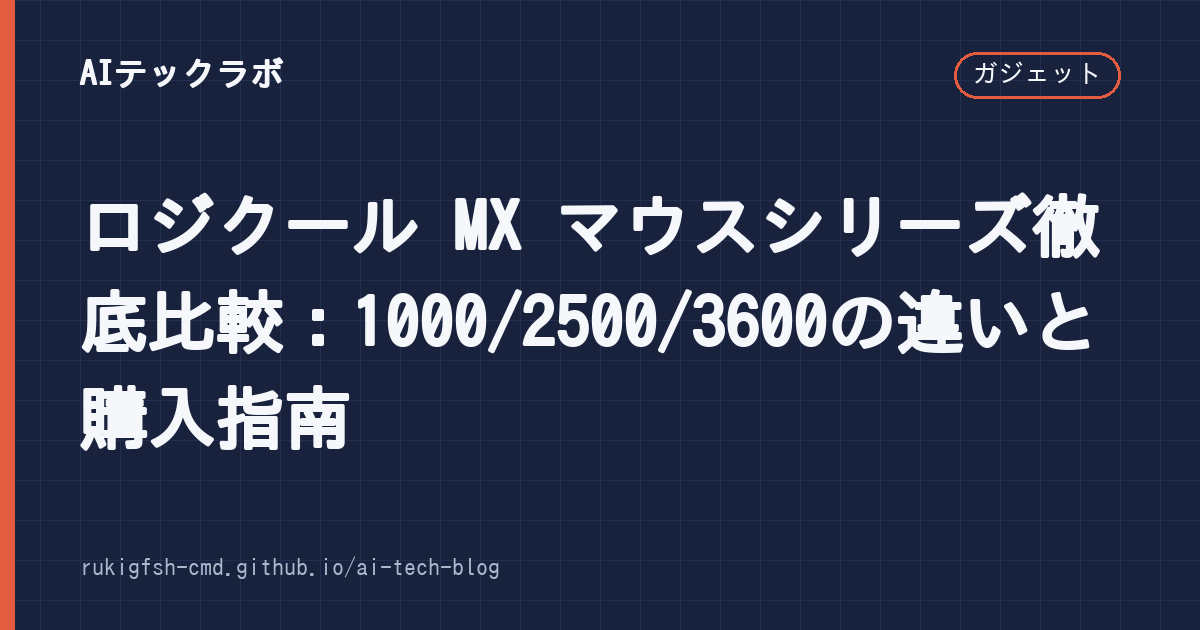
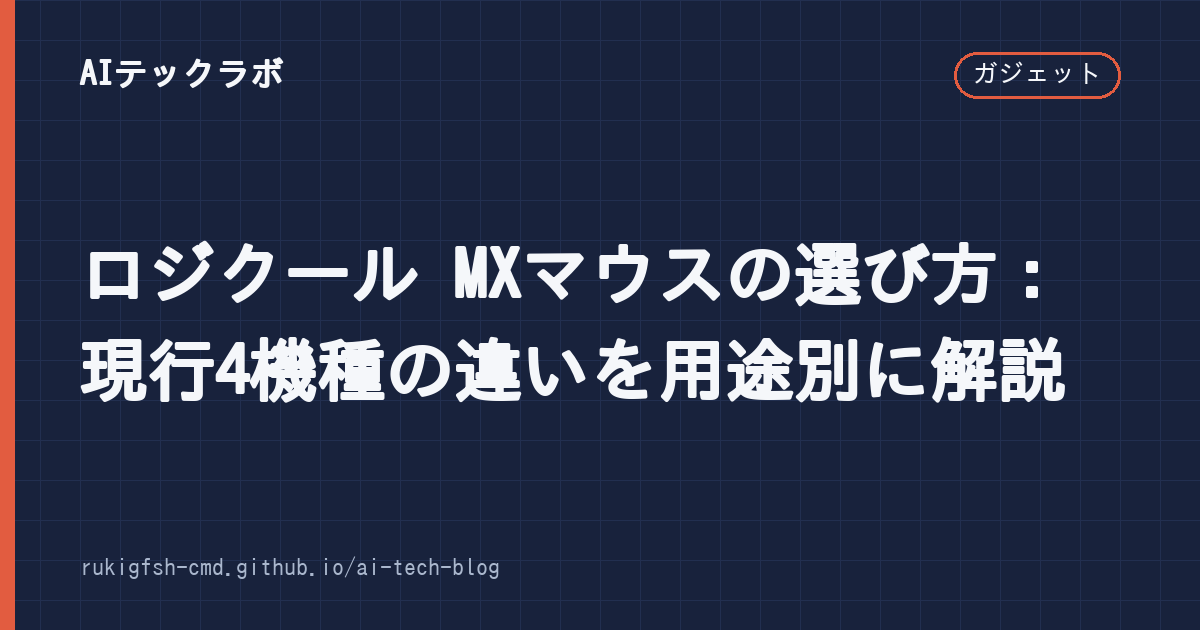
[auto-publish] ロジクールMXマウス記事を全面改稿（実在しない型番を削除し、現行4機種の違いと選び方を出典付きで）
Claude-Session: https://claude.ai/code/session_01LHbLs33cDbBz34BPQfV2BF

Changed region(s): [[0.0617, 0.3016, 0.925, 0.7238]]

diff --git a/_posts/2026-10-02-ロジクール-マウス-mx.md b/_posts/2026-10-02-ロジクール-マウス-mx.md
@@ -1,107 +1,162 @@
 ---
 layout: "post"
-title: "ロジクール MX マウスシリーズ徹底比較：1000/2500/3600の違いと購入指南"
+title: "ロジクール MXマウスの選び方：現行4機種の違いを用途別に解説"
 date: "2026-10-02 00:00:00 +0900"
-description: "ロジクール MX マウスの違いや選び方を知りたい人向け。各モデルの特徴と価格帯を比較し、用途別におすすめの機種を解説します"
+last_modified_at: 2026-11-27
+description: "ロジクールのMXマウス4機種（MX MASTER 4 / ANYWHERE 3S / ERGO S / VERTICAL）の違いを、形・重さ・接続台数・電池の持ち・価格で比較し、作業内容や手首の悩み別に選び方を整理します。"
 categories:
   - ガジェット
 tags:
   - ロジクール
   - マウス
   - MX
+  - 選び方
 author: "AIテックラボ編集部"
 image: "/assets/images/ロジクール-マウス-mx.png"
+pr: false
 ---
 
-## 目次
+「ロジクールの MX シリーズが良いと聞くけれど、どれを買えばいいのか分からない」という人向けに、**2026年11月時点で買える MX マウス4機種の違い**と、用途別の選び方を整理します。
 
-1. [基本構造の違いで性能が分かれる](#基本構造の違いで性能が分かれる)
-2. [各モデルの詳細比較](#各モデルの詳細比較)
-3. [ボタン配置の違いにも注意](#ボタン配置の違いにも注意)
-4. [選び方のポイントまとめ](#選び方のポイントまとめ)
-5. [FAQ](#faq)
+先に結論です。
 
----
+- **机で長時間作業する・ボタンをたくさん使いたい** → MX MASTER 4
+- **持ち歩く・手が小さめ・静かなクリックがいい** → MX ANYWHERE 3S
+- **手首や肩が疲れる・机が狭い** → MX ERGO S（トラックボール）
+- **手首をひねる姿勢がつらい** → MX VERTICAL（縦型）
 
-ロジクールのMXシリーズは、長時間使用でも疲れにくい設計が特徴で、多くのユーザーから高評価を得ています。しかし1000/2500/3600など複数のモデルが存在するため、自分に合ったものを選ぶのが難しいです。
+> **この記事について**: 以前この記事に載せていた「MX1000 / MX2500 / MX3600」の比較は、実在しない型番と誤った仕様にもとづく内容でした。読者の皆さまにお詫びし、2026年11月27日に全面的に書き直しました。仕様はメーカーの公式資料と報道で確認したもので、編集部が実機を使って検証したものではありません。価格や在庫は変わるため、購入前に公式ストアで確かめてください。
 
-今回は各モデルの性能・価格帯を詳細に比較し、用途別におすすめの機種を提案します。
+## MXシリーズとは
 
-## 基本構造の違いで性能が分かれる
+MX はロジクール（海外では Logitech）の、仕事向けの上位シリーズです。マウスのほかにキーボード（MX KEYS など）もあります。マウスに共通する特徴は次のとおりです。
 
-MXシリーズの基本構造はほぼ同じですが、センサーやボタンの数値設定で大きく異なります。
+- **複数のパソコンを切り替えられる**（Easy-Switch）。Bluetooth と USB レシーバー（Logi Bolt）の両方に対応する機種が中心です。
+- **USB-C で充電する内蔵バッテリー**。乾電池は使いません（MX VERTICAL も充電式です）。
+- **専用アプリ（Logi Options+）でボタンの割り当てを変えられる**。アプリごとに違う動きを設定することもできます。
 
-**センサー：PS/2.0（1000）vs PMW33（2500/3600）**
-PS/2.0は光学式センサーで、基本操作には十分ですが、高速スクロール時などに微細な誤検知が発生することがあります。一方、PMW33はレーザー式センサーで、より高い精度と応答速度を誇ります。
+ゲーム用のシリーズ（G シリーズ）とは方向性が違い、MX は「1日中の事務作業・制作作業を楽にする」ことを重視しています。
 
-**DPI（毎秒解像度）：1000 DPI vs 4000 DPI**
-PS/2.0モデルは最大1000 DPIまでに対応します。対するPMW33モデルは最大4000 DPI。この差は、CAD作業やゲームでの高速操作など、より精密な動きを必要とする用途で顕著に現れます。
+## 4機種の比較表
 
-## 各モデルの詳細比較
+| | MX MASTER 4 | MX ANYWHERE 3S | MX ERGO S | MX VERTICAL |
+|---|---|---|---|---|
+| 形 | 大きめ・右手用 | 小型・左右対称 | トラックボール（親指） | 縦型（57°） |
+| 発売 | 2025年10月 | 2023年6月 | 2024年9月 | 2018年（海外） |
+| 重さ | 約150g | 約99g | 約164g（プレート付き約259g） | 未確認 |
+| センサー | 8,000dpi | 8,000dpi | — | 4,000dpi |
+| ボタン | 8（うち6をカスタマイズ可） | 6 | — | — |
+| 接続 | Logi Bolt（USB-C）/ Bluetooth | Bluetooth（最大3台）/ Logi Bolt は別売 | Logi Bolt / Bluetooth（最大2台） | Unifying / Bluetooth / USB-C ケーブル |
+| 電池の持ち（公称） | 最大70日 | 未確認 | 最大120日 | 最長4か月 |
+| 直販価格の目安 | 21,890円 | 実売 約1.2〜1.6万円 | 19,580円 | 日本の価格は未確認 |
 
-**MX1000**
-- 価格：約6,500円（税別）
-- センサー：PS/2.0光学式センサー
-- DPI：最大1000
-- ボタン：標準7ボタン
-- おすすめ用途：一般的なオフィスワーク、web閲覧など
+「—」と「未確認」は、今回の調査で公式の数字を確かめられなかった項目です。電池の持ちはどの機種も「使い方や環境で変わる」という注記付きです。
 
-MX1000はシリーズの入門モデルで、価格帯が安く、通常のビジネス利用には充分な性能を持っています。PS/2.0センサーが気になる人でもなければ、まずはこちらから始めるのが良いでしょう。
+出典: [CGWORLD（MX MASTER 4 の発売・価格）](https://cgworld.jp/flashnews/02-2510-mx-master-4.html)、[ロジクール MX Master 4 for Business データシート（英語・PDF）](https://www.logitech.com/content/dam/logitech/en/business/pdf/mx-master-4-business-datasheet.pdf)、[マイナビニュース（MX ANYWHERE 3S の発表）](https://news.mynavi.jp/article/20230622-2710111/)、[価格.com（MX ANYWHERE 3S）](https://review.kakaku.com/review/J0000041836/)、[ロジクール MX Ergo S 製品ページ（英語）](https://logitech.com/en-ae/products/mice/mx-ergo-s-wireless-trackball-mouse.html)、[ロジクール MX VERTICAL データシート（日本語・PDF）](https://secure.logitech.com/content/dam/logitech/ja/business/pdf/mx-vertical-advanced-ergo-mouse-data-sheet.pdf)（いずれも2026年11月確認）
 
-**MX2500**
-- 価格：約8,000円（税別）
-- センサー：PMW33レーザー式センサー
-- DPI：最大4000
-- ボタン：標準7ボタン＋カスタムマクロ対応（側面スワイプ、後方ボタンなど）
-- おすすめ用途：CAD作業、プログラミング、ゲーマー向け
+## MX MASTER 4：机での作業がメインの人向け
 
-MX2500はシリーズのハイエンドモデルで、PMW33センサーとカスタマクロ機能を備えています。特に側面のボタン数は9個あり、メモ入力やショートカットキーの登録に便利です。価格帯は高めですが、高性能な作業環境を求めている人におすすめです。
+2019年の MX MASTER 3 以来、6年ぶりのフルモデルチェンジとして2025年10月30日に発売されました。直販価格は21,890円（税込）、色はグラファイトとペイルグレーです。2026年11月24日には、デザインを変えた数量限定の Special Edition（同じ価格）も出ています。
 
-**MX3600**
-- 価格：約12,000円（税別）
-- センサー：PMW33レーザー式センサー
-- DPI：最大4000
-- ボタン：標準7ボタン＋カスタムマクロ対応
-- おすすめ用途：極限まで精密な操作を必要とするプロフェッショナル向け
+主な特徴:
 
-MX2500とほぼ同性能ながら、ワイヤレス通信機能（Bluetooth/USBレシーバー）が追加されています。ただし価格も約4,000円高くなります。USB接続が許容範囲ならMX2500の方がコスパが良いでしょう。
+- **親指の位置に「触覚フィードバック センスパネル」**が新しく付きました。押すと、8つのショートカットが円形に並ぶ「Actions Ring」が開きます。ChatGPT や Gemini などの AI ツールを呼び出すショートカットも最初から用意されています。
+- **MagSpeed 電磁気スクロール**（前の世代から継続）。高速で回すと一気に長いページを送れます。
+- **USB-C の Logi Bolt レシーバー**に変わりました。ロジクールは、接続の安定性が MX MASTER 3 / 3S の2倍だと説明しています。
+- 1分の急速充電で約3時間使えます。
 
-## ボタン配置の違いにも注意
+注意点は**大きさと重さ**です。約150gと重めで、手が小さい人や、マウスを持ち上げて動かす癖がある人には負担になることがあります。左利き用はありません。
 
-各モデルとも側面にボタンがあり、後方スライディングボタンもあります。これらはOSD（On Screen Display）でカスタマイズ可能ですが、設定は少し複雑です。
+出典: [gori.me（MX MASTER 4 の発表）](https://gori.me/mac-accessories/mac-prepherial/161794)、[PHILE WEB（Actions Ring）](https://www.phileweb.com/news/gadget/202510/10/5275.html)、[Business Insider Japan（レビュー・重さ）](https://www.businessinsider.jp/article/2510-logicool-mx-master-4-review/)
 
-MX1000とMX2500/3600ではボタンの配置が異なります。MX1000の方が標準的な位置にあり、学習曲線も浅いのが特徴です。一方のMX2500/3600はゲーマー向けのボタン配置で、初期設定から少し慣れが必要ですが、カスタマイズ性は高いです。
+### 旧モデル（MX MASTER 3S）を選ぶのはあり？
 
-## 選び方のポイントまとめ
+3S は、触覚パネルが無いことと、レシーバーが USB-A であることを除けば、基本の形・スクロール・センサー（8,000dpi）は近い機種です。在庫が残っていて価格差が大きいなら選択肢になります。ただし、旧モデルはいつ販売が終わるか分からないので、長く使う前提なら現行の MASTER 4 が無難です。
 
-1. **用途を明確にする**
-   - オフィスワークのみならMX1000
-   - CADやゲームなど高負荷な作業ならMX2500
-   - ワイヤレス必須ならMX3600
+## MX ANYWHERE 3S：持ち運び・小さめの手の人向け
 
-2. **接続方式も考慮する**
-   - 安定性を重視するならUSB有線
-   - モバイルとの連携を考えるとBluetooth
-   - USBレシーバーは両方の利点を持つが、紛失リスクあり
+2023年6月に発売された小型モデルです。重さは約99gで、カバンに入れて持ち歩きやすいサイズです。
 
-3. **予算と性能のバランス**
-   MX1000とMX2500で十分なケースが多いです。MX3600へのアップグレードは、ワイヤレス機能を実際に使うまで待つのが賢明でしょう。
+- **静音クリック**。図書館・カフェ・オンライン会議中でもクリック音が気になりにくい。
+- **8,000dpi のセンサー**で、ガラスの机の上でも使えるとされています。
+- **Bluetooth で最大3台**を切り替えられます。USB レシーバー（Logi Bolt）は付属しないモデルがあるので、Bluetooth が無いパソコンで使う場合は別に用意します。
+- 左右対称の形なので、左手でも持てます（ただし進む・戻るボタンは左側面にあります）。
 
-## FAQ
+前の世代（MX ANYWHERE 3）からの違いは、静音クリック、レシーバーの規格（Logi Bolt）、センサーの高感度化です。
 
-**Q：ロジクールMXマウスは電池式ですか？**
-A：いいえ。USB有線接続またはBluetooth/USBレシーバー（3600のみ）で動作します。
+注意点は、**親指の置き場が無い小さな形**なので、大きい手でしっかり握りたい人は長時間で疲れることがある点です。
 
-**Q：左右非対称のデザインですが、片手用もできますか？**
-A：形状上右利き向けですが、左利きは反転スイッチで対応可能。片手用は可能ですが、快適性は落ちます。
+出典: [マイナビニュース](https://news.mynavi.jp/article/20230622-2710111/)、[gori.me（前モデルのレビュー）](https://gori.me/mac-accessories/mac-prepherial/130161)
 
-**Q：防水性能はありますか？**
-A：IPX3規格（約1m深さに10分間没水）に準拠しており、こぼしや雨漏りに強いのが特徴です。
+## MX ERGO S：手首・肩の疲れを減らしたい人向け
 
-**Q：耐久性はどのくらいですか？**
-A：Microsoftと共同開発したラバーホイールスクローラーを採用しており、通常のマウスより長持ちします。
+2024年9月に発売された、**親指で玉を転がすトラックボール**です。直販価格は19,580円（税込）。本体を動かさないので、腕全体を動かす量が減り、机が狭くても使えます。
 
-**Q：カスタムマクロ設定が難しいですか？**
-A：MX2500/3600ではSidePort softwareで設定可能ですが、やや専門知識が必要です。初心者なら標準機能で十分でしょう。
+- 付属の金属プレートで、**本体を0°か20°に傾けられます**。ロジクールは、20°の傾きで前腕の筋肉の負担が減ると説明しています。
+- 前のモデル（MX ERGO）からの変更点は、**静音クリック、USB-C 充電、Logi Bolt レシーバー**など。
+- フル充電で最大120日、1分の充電で約24時間使えます（公称）。
+- Bluetooth と Logi Bolt で**最大2台**を切り替えられます。MASTER 4（Bolt＋Bluetooth）や ANYWHERE 3S（最大3台）と比べて、切り替えられる台数が少ない点は注意です。
 
-ロジクールMXシリーズは「買い」なマウスですが、自分に合ったモデルを選ぶのが重要です。まずはMX1000またはMX2500から始めて、必要に応じてアップグレードするのがおすすめです。
+トラックボールは**慣れるまで数日〜1週間ほどかかる**のが一般的です。細かい図形の操作やゲームには向きません。玉は手の脂で汚れるので、ときどき外して掃除します。
+
+出典: [ロジクール MX Ergo S 製品ページ（英語）](https://logitech.com/en-ae/products/mice/mx-ergo-s-wireless-trackball-mouse.html)、[スマートウォッチライフ（長期使用レビュー）](https://www.smartwatchlife.jp/73306/)
+
+## MX VERTICAL：手首をひねる姿勢がつらい人向け
+
+握手をするような形で持つ**縦型マウス**です。57°の傾きで、普通のマウスを持つときの「手首を内側にひねる」姿勢を減らします。
+
+- 4,000dpi のセンサー、フル充電で最長4か月（公称）。
+- 接続は **Unifying レシーバー・Bluetooth・USB-C ケーブル**の3通り。ほかの3機種と違い、レシーバーは新しい Logi Bolt ではなく旧規格の Unifying です。
+- 2018年に出た機種で、4機種の中ではいちばん古い設計です。
+
+縦型も慣れが要り、最初は細かいカーソル操作がしにくく感じます。日本の公式ストアの価格は今回確認できなかったので、購入時に確かめてください。
+
+出典: [ロジクール MX VERTICAL データシート（日本語・PDF）](https://secure.logitech.com/content/dam/logitech/ja/business/pdf/mx-vertical-advanced-ergo-mouse-data-sheet.pdf)
+
+## 選び方：3つの質問で決める
+
+### 1. 主にどこで使う？
+
+- **自宅や会社の机だけ** → 大きさを気にしなくてよいので、MASTER 4 か ERGO S。
+- **持ち歩く** → ANYWHERE 3S。MASTER 4 はカバンに入れるとかさばります。
+
+### 2. 体のどこがつらい？
+
+- **特に無い・作業効率を上げたい** → MASTER 4（ボタンと Actions Ring でショートカットを増やせる）。
+- **手首や前腕が疲れる、肩がこる** → ERGO S（腕を動かさない）か VERTICAL（手首をひねらない）。
+  痛みが続く場合は、マウスを替える前に医療機関に相談してください。道具で軽くなることはあっても、治療の代わりにはなりません。
+
+### 3. 何台のパソコン・タブレットで使う？
+
+- **3台を切り替えたい** → ANYWHERE 3S（Bluetooth で最大3台）。MASTER 4 の台数は公式ページで確認してください。
+- **2台まで** → どれでも可。ERGO S は最大2台です。
+- **会社のパソコンで Bluetooth が使えない** → レシーバーが付属する機種（MASTER 4・ERGO S・VERTICAL）。会社によっては USB レシーバーの持ち込みも禁止なので、先に確認します。
+
+## 買う前の注意点
+
+- **Mac 用モデル**: ANYWHERE 3S などには「for Mac」版があります。中身はほぼ同じで、色やレシーバーの有無が違います。Windows でも使えますが、付属品を確認してから選びます。
+- **Logi Bolt と Unifying は互換性がない**: 同じロジクールのレシーバーでも、Bolt 対応の機器を Unifying レシーバーにつなぐことはできません（逆も同じ）。手持ちのキーボードとレシーバーを共有したい人は規格をそろえます。
+- **アプリの権限**: Logi Options+ は、ボタンの割り当てなどのために常に動くアプリです。会社のパソコンでは、インストールが許可されているか確認しましょう。アプリなしでも基本の操作はできます。
+- **価格の比べ方**: 直販価格より通販のほうが安いことが多い一方、並行輸入品は日本の保証が受けられない場合があります。販売元を確認してください。
+
+## よくある質問
+
+**Q. MX マウスはゲームに向いていますか？**
+A. 向いていません。遅延の少なさやポーリングレートを重視するなら、ロジクールの G シリーズなどゲーム用のマウスを選びます。
+
+**Q. iPad やスマートフォンでも使えますか？**
+A. Bluetooth 対応の機種なら、iPadOS や Android でも使えます。ただしボタンの割り当ての変更は、パソコン用のアプリ（Logi Options+）でしかできない機能があります。
+
+**Q. 電池が切れたらどうなりますか？**
+A. 4機種とも USB-C で充電しながら使えます。MASTER 4 は1分の充電で約3時間、ERGO S は約24時間使える急速充電に対応しています（公称）。
+
+**Q. 防水ですか？**
+A. 4機種とも防水をうたう仕様は見当たりません。飲み物をこぼさないよう注意してください。
+
+## まとめ
+
+- 迷ったら、机での作業がメインなら **MX MASTER 4**、持ち歩くなら **MX ANYWHERE 3S**。
+- 手首や肩のつらさが動機なら、**MX ERGO S（トラックボール）**か **MX VERTICAL（縦型）**。どちらも慣れる期間を見込んでおきます。
+- 接続台数・レシーバーの規格・会社のパソコンのルールは、買う前に確認しておくと失敗しにくくなります。
+
+作業環境を見直すなら、「[メカニカルキーボードの選び方]({{ site.baseurl }}{% post_url 2026-09-26-キーボード-メカニカル-おすすめ %})」もどうぞ。PC 本体から考えたい人は「[ゲーミングPC自作の入門]({{ site.baseurl }}{% post_url 2026-09-04-ゲーミングpc-自作-初心者 %})」、ノートPCに外部GPUをつなぎたい人は「[外付けGPU（eGPU）の始め方]({{ site.baseurl }}{% post_url 2026-10-13-外付けgpu-egpu-接続 %})」が参考になります。Actions Ring から呼び出せる AI ツールの使い分けは「[Claude・ChatGPT・Geminiの違いと使い分け]({{ site.baseurl }}{% post_url 2026-10-08-claude-ai-比較 %})」で解説しています。

diff --git a/automation/state/content-audit.md b/automation/state/content-audit.md
@@ -22,7 +22,8 @@
 - [x] `_posts/2026-09-03-ai-動画生成-無料ツール.md`（2026-11-26 全面改稿。根拠不明の無料枠の数字・ツールTop5を削除。Sora終了（2026-04-26）・Geminiの動画生成（Gemini Omni）は有料のみ・各社の無料枠のタイプ・透かし/商用利用の注意・ローカル生成（Wan 2.2/LTX-2）・ffmpegでクリップをつなぐ手順（実行確認済み）を出典付きで） — 「2025年版」の内容。2026年時点のツールと無料枠に更新。
 - [x] `_posts/2026-09-21-rtx-4070-ti-super-レビュー.md`（2026-11-24 全面改稿。架空のベンチマーク・誤った仕様（Ampere・20GB・220W）を削除し、実機未検証と明記。仕様・RTX 5070 Tiとの差（GamersNexus/Tom's Hardware/Club386）・DLSSの対応範囲・2026年の価格事情・中古の確認点を出典付きで。商品リンクなし pr: false） — 実機検証をしていないのに検証したように読める表現を直す。ベンチマーク値に出典を付ける。
 - [x] `_posts/2026-10-13-外付けgpu-egpu-接続.md`（2026-11-23 全面改稿。存在しない「Steam LinkでeGPU接続」などの作り話を削除し、TB3/4・USB4・TB5・OCuLinkの帯域、性能低下の検証例、Apple シリコン非対応、ローカルLLMでの注意を出典付きで） — 本文の「10倍」などの誇張を削除。対応条件（Thunderbolt / USB4 / OCuLink）を正確に。
-- [ ] `_posts/2026-10-02-ロジクール-マウス-mx.md`、`_posts/2026-09-04-ゲーミングpc-自作-初心者.md` — 型番・価格の鮮度を確認し、商品リンクを include に。
+- [x] `_posts/2026-10-02-ロジクール-マウス-mx.md`（2026-11-27 全面改稿。実在しない型番「MX1000/2500/3600」と誤った仕様・作り話のFAQを削除し、現行4機種（MX MASTER 4 / ANYWHERE 3S / ERGO S / VERTICAL）の比較と用途別の選び方を出典付きで。ASIN未確認のため商品リンクなし pr: false） — 型番・価格の鮮度を確認し、商品リンクを include に。
+- [ ] `_posts/2026-09-04-ゲーミングpc-自作-初心者.md` — 型番・価格の鮮度を確認し、商品リンクを include に。
 - [ ] 全記事: description が「〜について詳しく解説します。」の定型文のものを、80〜120字の具体的な説明に。
 - [ ] 全記事: 手書きの目次のリンク先が見出しと一致しているか確認（ずれている記事が多い）。
 - [ ] 全記事: 関連記事への内部リンク2〜3本と、出典リンクを追加。

diff --git a/_posts/2026-09-26-キーボード-メカニカル-おすすめ.md b/_posts/2026-09-26-キーボード-メカニカル-おすすめ.md
@@ -133,7 +133,7 @@ Mac で使う場合は、**Mac 用のキー表記（command / option）やモー
 - 複数の機器で使うなら Bluetooth＋有線、ゲームなら有線か 2.4GHz
 - あとから好みを探したいならホットスワップ対応を選ぶ
 
-マウスも見直したい人は「[ロジクール MX マウスシリーズの比較]({{ site.baseurl }}{% post_url 2026-10-02-ロジクール-マウス-mx %})」、PC 本体から考えたい人は「[ゲーミングPC自作の入門]({{ site.baseurl }}{% post_url 2026-09-04-ゲーミングpc-自作-初心者 %})」もどうぞ。キーボードで作業効率を上げたら、「[ChatGPTを副業の作業に活かす使い方]({{ site.baseurl }}{% post_url 2026-09-19-chatgpt-副業-活用 %})」で文章作業そのものの効率化もできます。
+マウスも見直したい人は「[ロジクール MXマウスの選び方]({{ site.baseurl }}{% post_url 2026-10-02-ロジクール-マウス-mx %})」、PC 本体から考えたい人は「[ゲーミングPC自作の入門]({{ site.baseurl }}{% post_url 2026-09-04-ゲーミングpc-自作-初心者 %})」もどうぞ。キーボードで作業効率を上げたら、「[ChatGPTを副業の作業に活かす使い方]({{ site.baseurl }}{% post_url 2026-09-19-chatgpt-副業-活用 %})」で文章作業そのものの効率化もできます。
 
 ### 参考にした情報
 
